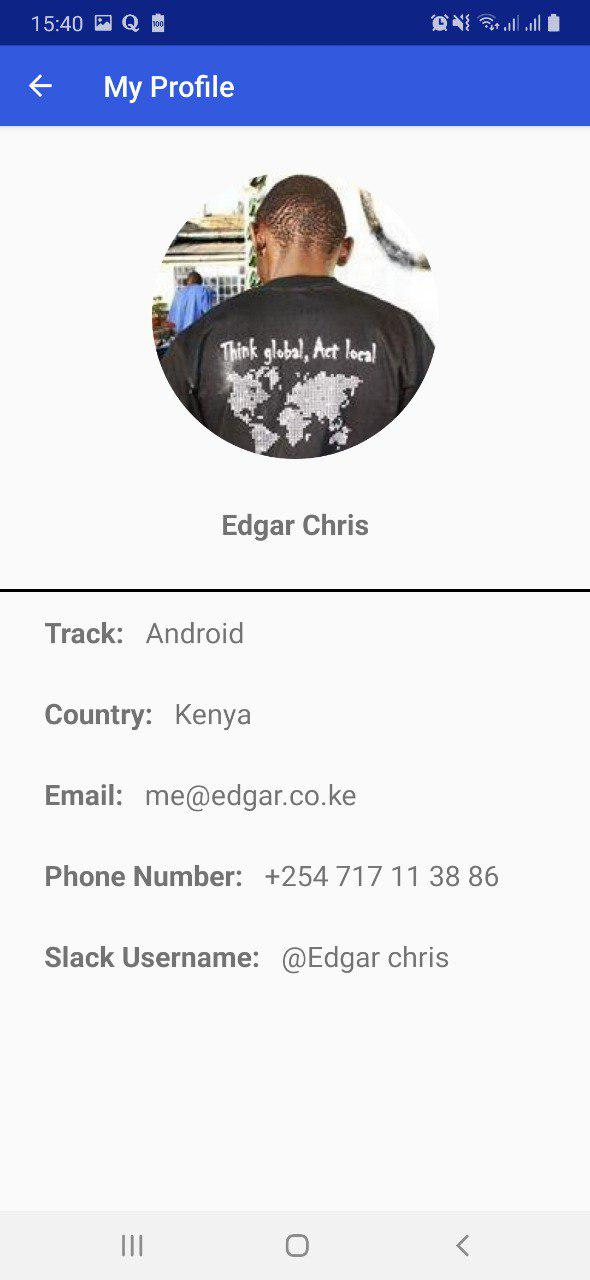
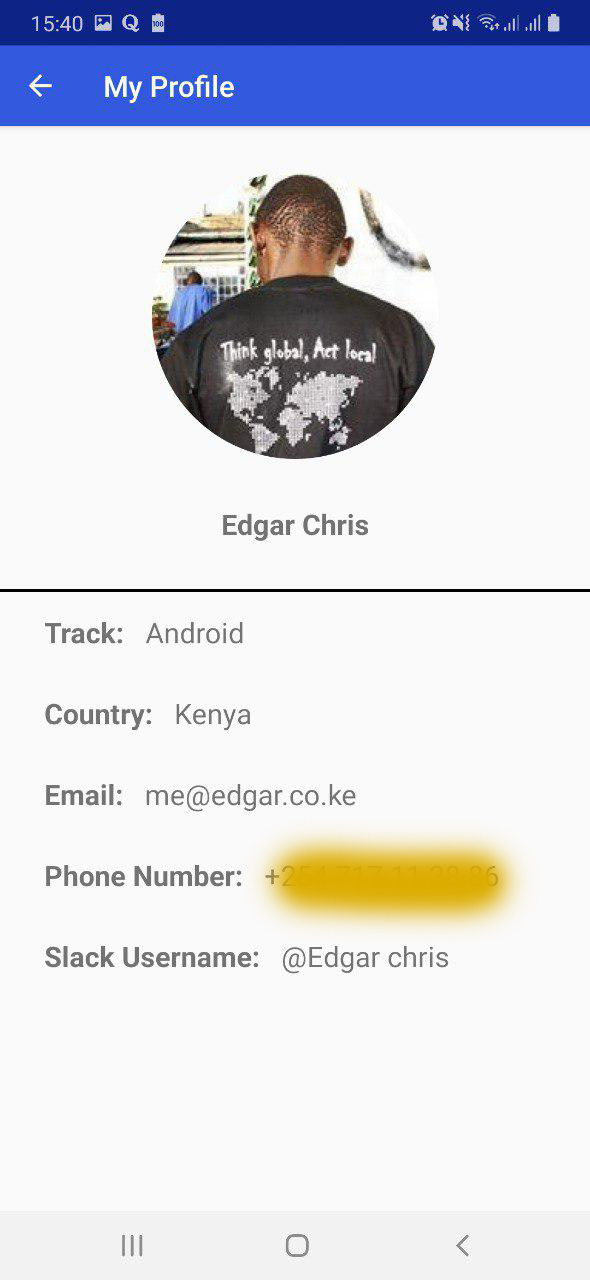
blur out phone number

diff --git a/README.md b/README.md
@@ -13,9 +13,13 @@ TextViews showing your name, Track, Country, Email and Phone Number.
 ## Screen 1
 ![Alt text](/screenshot/1.jpg?raw=true "Step 1")
 ## Screen 2
-![Alt text](/screenshot/3.jpg?raw=true "Step 2")
-## Screen 3
-![Alt text](/screenshot/3.jpg?raw=true "Step 3")
+![Alt text](/screenshot/2.jpg?raw=true "Step 2")
+## Screen 3.0
+![Alt text](/screenshot/3.0jpg?raw=true "Step 3")
+## Screen 3.1
+![Alt text](/screenshot/3.1jpg?raw=true "Step 3")
+## Screen 3.2
+![Alt text](/screenshot/3.2jpg?raw=true "Step 3")
 
 ## Screen 4
 ![Alt text](/screenshot/4.jpg?raw=true "Step 4")
